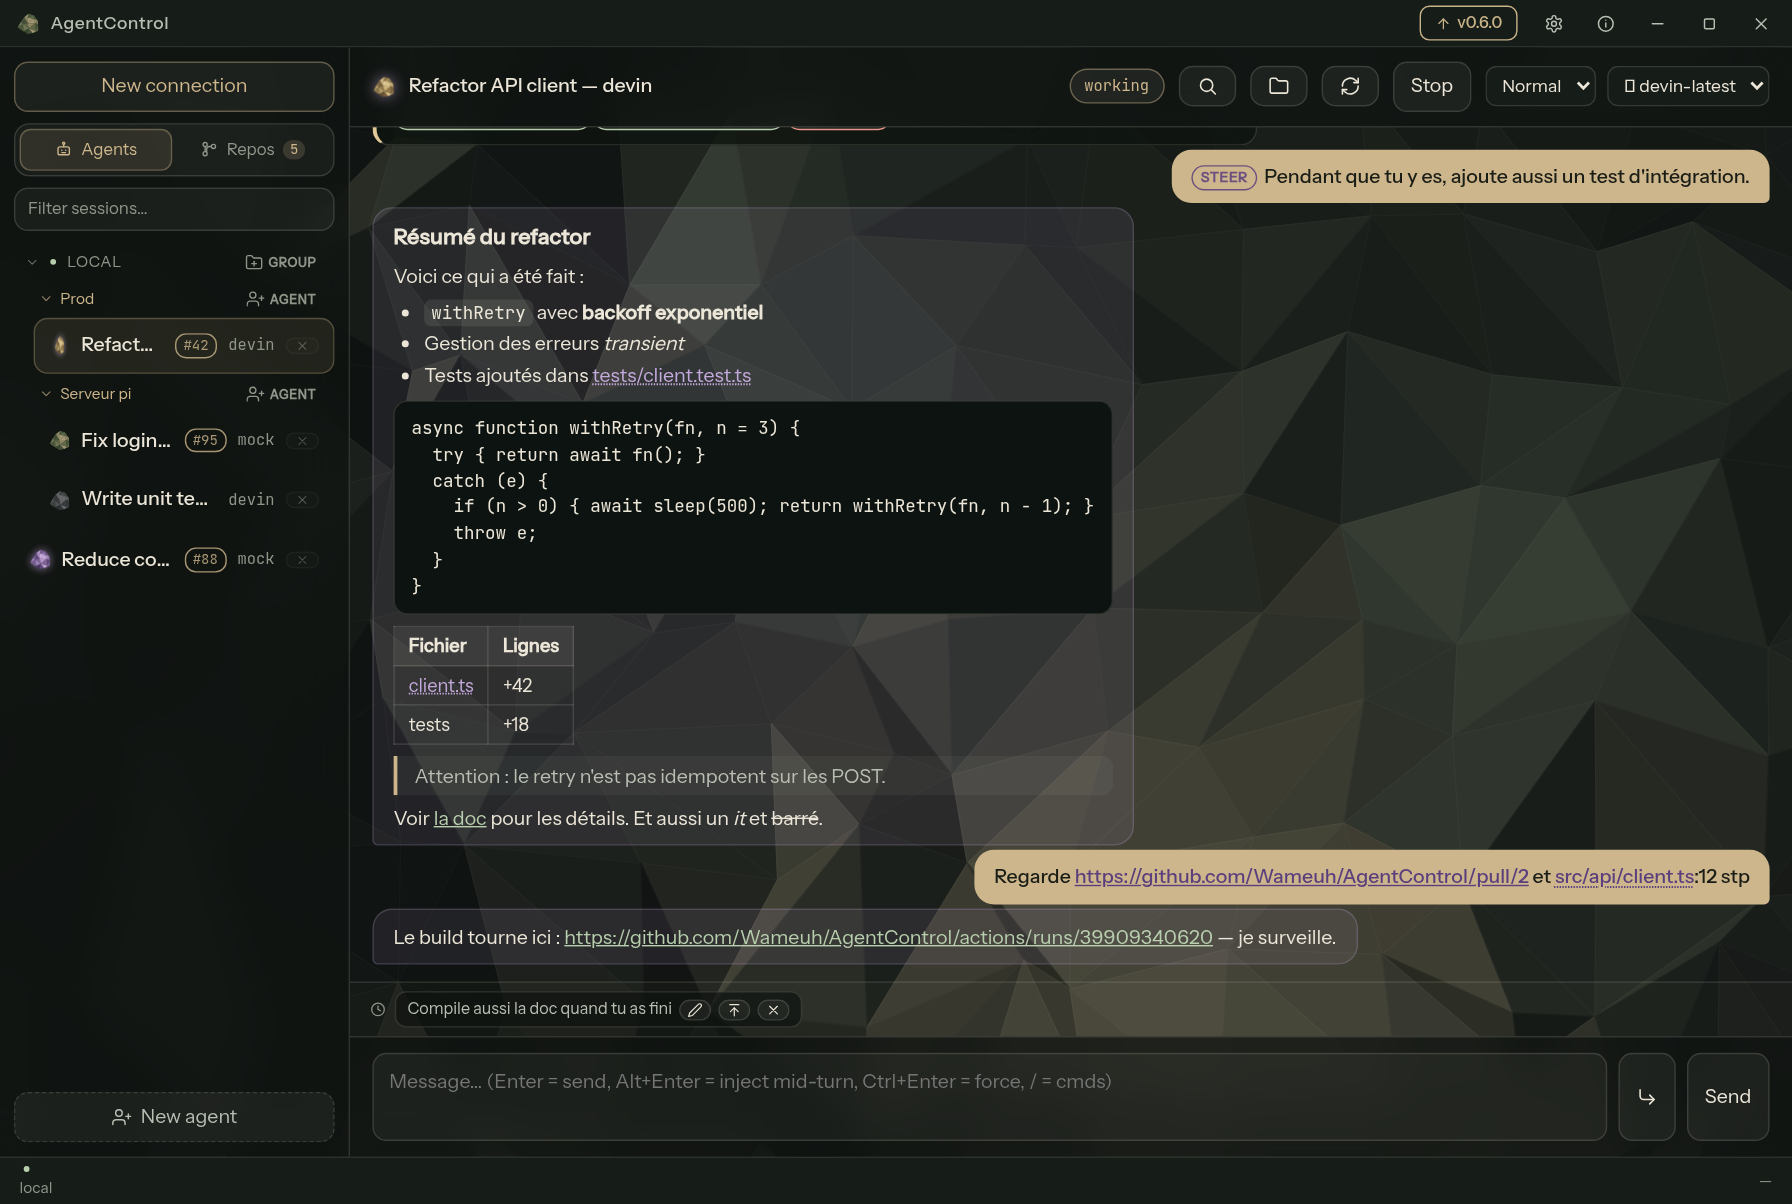
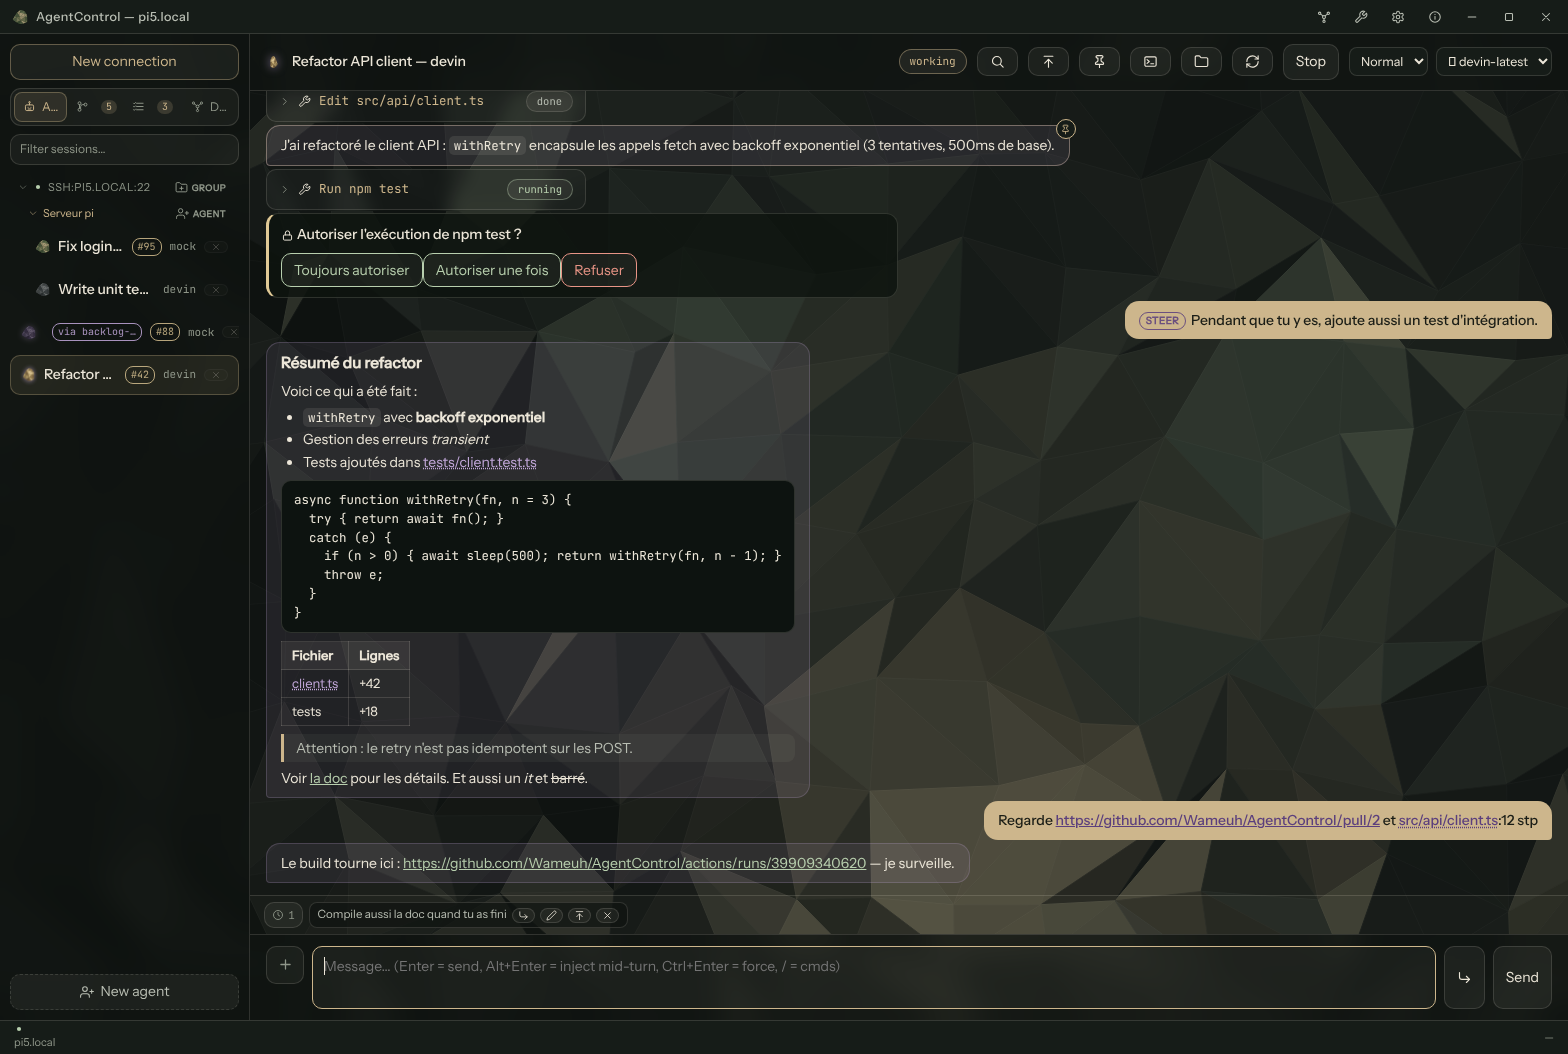
docs: captures README à jour — nouvelles surfaces UI (pins, badges PR, backlog, QR pair, PDF)
Generated with [Devin](https://devin.ai)

diff --git a/client/tests/tauri-mock.js b/client/tests/tauri-mock.js
@@ -1,8 +1,13 @@
 // Mock window.__TAURI_INTERNALS__ pour tester la WebView hors Tauri.
 // Répond aux invoke() du frontend avec des données réalistes.
 (function () {
+  // Clé de la connexion simulée — doit correspondre à connKeyOf(cfg) de la
+  // saved_connections plus bas (ssh → ssh-native forcé sous Android) pour
+  // que les capabilities du daemon_status s'appliquent aux sessions.
+  const CONN = /Android/i.test(navigator.userAgent)
+    ? "ssh-native:pi5.local:22" : "ssh:pi5.local:22";
   const SESSIONS = [
-    { id: "s1", conn: "local", agent: "devin", title: "Refactor API client",
+    { id: "s1", conn: CONN, agent: "devin", title: "Refactor API client",
       cwd: "/home/agent/api", created_at: "2026-10-20T10:00:00Z",
       available_modes: ["normal", "auto"], available_models: ["devin-latest", "opus"],
       available_commands: [{ name: "compact", description: "Compacter le contexte" }],
@@ -13,14 +18,14 @@
           currentValue: "devin-latest", options: [{ value: "devin-latest", name: "devin-latest" }, { value: "opus", name: "opus" }] },
       ],
       state: "working" },
-    { id: "s2", conn: "local", agent: "mock", title: "Fix login crash",
+    { id: "s2", conn: CONN, agent: "mock", title: "Fix login crash",
       cwd: "/home/agent/app", created_at: "2026-10-19T09:00:00Z", group: "Serveur pi",
       spawned_by: "s1",
       available_modes: [], available_models: [], available_commands: [], state: "idle" },
-    { id: "s3", conn: "local", agent: "devin", title: "Write unit tests",
+    { id: "s3", conn: CONN, agent: "devin", title: "Write unit tests",
       cwd: "/home/agent/tests", created_at: "2026-10-18T08:00:00Z", group: "Serveur pi",
       available_modes: [], available_models: [], available_commands: [], state: "dead" },
-    { id: "s4", conn: "local", agent: "mock", title: "Reduce context usage",
+    { id: "s4", conn: CONN, agent: "mock", title: "Reduce context usage",
       cwd: "/home/agent/infra", created_at: "2026-10-21T07:30:00Z",
       origin: "component:backlog-orchestrator",
       available_modes: [], available_models: [], available_commands: [], state: "compacting" },
@@ -87,18 +92,65 @@
     { seq: 11, ts: "10:09", type: "agent_text",
       text: "Le build tourne ici : https://github.com/Wameuh/AgentControl/actions/runs/39909340620 — je surveille." },
   ];
-  const DIR = {
-    dir: "/home/agent/api",
-    entries: [
-      { name: "src", dir: true, size: 0 },
-      { name: "tests", dir: true, size: 0 },
-      { name: ".git", dir: true, size: 0 },
-      { name: "Cargo.toml", dir: false, size: 1240 },
-      { name: "package.json", dir: false, size: 980 },
-      { name: "README.md", dir: false, size: 4321 },
-      { name: "logo.png", dir: false, size: 68 },
-      { name: ".env", dir: false, size: 120 },
-    ],
+  const DIRS = {
+    "": {
+      dir: "/home/agent/api",
+      entries: [
+        { name: "src", dir: true, size: 0 },
+        { name: "tests", dir: true, size: 0 },
+        { name: ".git", dir: true, size: 0 },
+        { name: "Cargo.toml", dir: false, size: 1240 },
+        { name: "package.json", dir: false, size: 980 },
+        { name: "README.md", dir: false, size: 4321 },
+        { name: "rapport.pdf", dir: false, size: 797 },
+        { name: "logo.png", dir: false, size: 68 },
+        { name: ".env", dir: false, size: 120 },
+      ],
+    },
+    "src": {
+      dir: "/home/agent/api/src",
+      entries: [
+        { name: "api", dir: true, size: 0 },
+        { name: "client.ts", dir: false, size: 2890 },
+        { name: "retry.ts", dir: false, size: 1154 },
+        { name: "types.ts", dir: false, size: 640 },
+      ],
+    },
+    "src/api": {
+      dir: "/home/agent/api/src/api",
+      entries: [
+        { name: "client.ts", dir: false, size: 3120 },
+        { name: "fetch.ts", dir: false, size: 845 },
+      ],
+    },
+    "tests": {
+      dir: "/home/agent/api/tests",
+      entries: [
+        { name: "client.test.ts", dir: false, size: 2034 },
+      ],
+    },
+  };
+  // PDF minimal valide (2 pages, repris de pdf-view-e2e.mjs) — sert la
+  // preview du viewer PDF dans les captures.
+  const PDF_B64 =
[1 lines of base64/hex data omitted]
+  // Épinglés (pinned.json) : un « live » (seq+ts correspondent au
+  // journal EVENTS) + un « dead » (icône d'avertissement — son event a
+  // disparu après /clear). Couvre les deux états du panneau.
+  const PINNED = [
+    { seq: 5, ts: "10:04", type: "agent_text",
+      text: "J'ai refactoré le client API : withRetry encapsule les appels fetch avec backoff exponentiel (3 tentatives, 500ms de base).",
+      pinned_at: "2026-10-21T10:20:00Z", live: true },
+    { seq: 3, ts: "09:58", type: "user_message",
+      text: "Ajoute un coverage du chemin d'erreur réseau.",
+      pinned_at: "2026-10-20T18:02:00Z", live: false },
+  ];
+  const CAPS = {
+    version: "0.10.0", sessions: SESSIONS.length,
+    agents: ["devin", "mock"],
+    self_update: true, first_post: true, terminal: true, files: true,
+    components: true, orchestrator: true, pinned: true, queue_steer: true,
+    web: null,
   };
   const FILE = { content: "export async function apiCall(url, opts) {\n  return withRetry(() => fetch(url, opts), 3);\n}\n\nasync function withRetry(fn, n) {\n  try { return await fn(); }\n  catch (e) { if (n > 0) { await sleep(500); return withRetry(fn, n - 1); } throw e; }\n}", truncated: false, path: "/home/agent/api/src/client.ts" };
 
@@ -112,17 +164,26 @@
       }
       case "events": return { events: EVENTS, last_seq: EVENTS.length };
       case "queue_list": return { queue: ["Compile aussi la doc quand tu as fini"] };
-      case "list_dir": return DIR;
-      case "read_file": return args.binary ? {
-        path: "/home/agent/api/logo.png", size: 68, truncated: false,
[1 lines of base64/hex data omitted]
-      } : FILE;
+      case "list_dir":
+        return DIRS[args.path ?? ""] ??
+          { dir: `/home/agent/api/${args.path ?? ""}`, entries: [] };
+      case "read_file":
+        if (args.binary && String(args.path).endsWith("rapport.pdf")) {
+          return { path: "/home/agent/api/rapport.pdf", size: 797,
+                   truncated: false, data: PDF_B64 };
+        }
+        return args.binary ? {
+          path: "/home/agent/api/logo.png", size: 68, truncated: false,
[1 lines of base64/hex data omitted]
+        } : FILE;
+      case "list_pinned": return { pinned: PINNED };
+      case "pin_message": case "unpin_message": return { pinned: PINNED };
       case "set_session_group": {
         const s = SESSIONS.find((x) => x.id === args.session);
         if (s) s.group = args.group;
         return { group: args.group };
       }
-      case "daemon_status": return { version: "0.2.9", sessions: SESSIONS.length, components: true };
+      case "daemon_status": return CAPS;
       case "list_components":
         return COMPONENTS.filter((c) => c.name !== "agentbacklog" || !window.__blHide);
       case "component_query": {
@@ -178,22 +239,22 @@
         };
       }
       case "pr_list": return [
-        { conn: "local", repo: "Wameuh/AgentControl", pr: 42,
+        { conn: CONN, repo: "Wameuh/AgentControl", pr: 42,
           session: SESSIONS[0].id, branch: "feat/x", title: "feat: exemple",
           status: "open", via: "detected" },
-        { conn: "local", repo: "Wameuh/AgentControl", pr: 95,
+        { conn: CONN, repo: "Wameuh/AgentControl", pr: 95,
           session: SESSIONS[1].id, branch: "feat/sous-agents",
           title: "feat: sous-agents dans l'arbre", status: "draft",
           via: "manual" },
-        { conn: "local", repo: "Wameuh/AgentControl", pr: 88,
+        { conn: CONN, repo: "Wameuh/AgentControl", pr: 88,
           session: SESSIONS[3].id, branch: "fix/scroll",
           title: "fix: scroll ancré au bas", status: "open",
           via: "detected" },
-        { conn: "local", repo: "cli/cli", pr: 1204,
+        { conn: CONN, repo: "cli/cli", pr: 1204,
           session: "agent-externe-qui-n-existe-plus", branch: "patch-1",
           title: "fix: token refresh retry", status: "conflict",
           via: "manual" },
-        { conn: "local", repo: "cli/cli", pr: 1190,
+        { conn: CONN, repo: "cli/cli", pr: 1190,
           session: "", branch: "docs/readme",
           title: "docs: contribution guide", status: "open", via: "manual" },
       ];
@@ -214,24 +275,35 @@
     invoke(cmd, args) {
       const p = Promise.resolve();
       if (cmd === "platform") return p.then(() => (location.hash === "#desktop" ? "linux" : "android"));
-      if (cmd === "app_version") return p.then(() => "0.2.9");
+      if (cmd === "app_version") return p.then(() => "0.10.0");
       if (cmd === "plugin:event|listen") return p.then(() => ++cbId);
       if (cmd === "plugin:event|unlisten") return p.then(() => null);
       if (cmd.startsWith("plugin:")) return p.then(() => null);
       switch (cmd) {
-        case "connect": return p.then(() => ({ version: "0.2.9", sessions: SESSIONS.length, servers: 1, components: true }));
+        case "connect": return p.then(() => ({ ...CAPS, servers: 1 }));
         case "call": return p.then(() => rpc(args.method, args.params ?? args));
         case "subscribe": return p.then(() => null);
-        case "saved_connections": return p.then(() => []);
+        case "saved_connections": return p.then(() => [
+          { kind: "ssh", host: "pi5.local", user: "me", port: 22, remote_port: 7331 },
+        ]);
         case "cli_conn": return p.then(() => null);
         case "spawn_instance": return p.then(() => null);
         case "ssh_hosts": return p.then(() => []);
         case "ssh_pubkey": return p.then(() => "ssh-ed25519 AAAAC3NzaC1lZDI1NTE5AAAAIDemoAgentControlKeyExample agentcontrol");
-        // Appairage QR : l'install distante n'est pas simulée — réponses
-        // d'endpoint seul (resolve ok, begin refuse → mode dégradé/testé
-        // hors Tauri). pair_devices vide = la section reste pliable.
+        // Appairage QR : pair_begin réussit avec un payload v2 démo (clé
+        // jetable factice — captures README) ; le poll renvoie « gone »
+        // (le dialogue affiche l'état sans dépendre d'un serveur réel).
         case "pair_resolve": return p.then(() => ({ host: args.cfg?.host ?? "demo.local", port: 22, user: "dev" }));
-        case "pair_begin": return p.then(() => { throw new Error("mock: pas de serveur"); });
+        case "pair_begin": return p.then(() => ({
+          payload: JSON.stringify({
+            v: 2, host: "pi5.local", port: 22, user: "me", rport: 7331,
+            exp: Math.floor(Date.now() / 1000) + 290,
+            k: "-----BEGIN OPENSSH PRIVATE KEY-----\nb3BlbnNzaC1rZXktdjEAAAAAEC1tb2NrLWRlbW8ta2V5LWZvci1zY3JlZW5zaG90\n-----END OPENSSH PRIVATE KEY-----",
+            hk: ["SHA256:DemoHostKeyFingerprintForScreenshot"],
+          }),
+          exp: Math.floor(Date.now() / 1000) + 290,
+          nonce: "demo-nonce-0001", warn: null, sweep: "cron",
+        }));
         case "pair_devices": return p.then(() => []);
         case "pair_payload": return p.then(() => "agentcontrol://pair?v=1&host=demo.local&port=22&rport=7331&user=dev&auth=pw&secret=ZGVtbw");
         case "pair_poll": return p.then(() => "gone");

diff --git a/README.md b/README.md
@@ -15,15 +15,24 @@ whole fleet from your desk or your couch.
 
 ## Screenshots
 
-Markdown chat with expandable tool calls, session groups, prompt queue,
-pull-request tracking — desktop:
+Markdown chat with expandable tool calls, pending permissions, session
+groups, a prompt queue and pull-request tracking — desktop:
 
 ![AgentControl desktop — agent chat](docs/screenshots/desktop-chat.png)
 
-Browse the remote workspace: file tree, in-app editing, image and video
-preview:
+Browse the remote workspace: file tree, in-app editing, image, video and
+PDF preview:
 
 ![AgentControl desktop — remote file explorer](docs/screenshots/desktop-files.png)
+
+Pair a phone (or a second machine) by QR — a one-shot key on the server,
+the device keeps its own:
+
+![AgentControl — pair a device by QR](docs/screenshots/desktop-pair.png)
+
+| Watch the shared backlog — queue, in-flight work, throughput | Tune the feel — themes, accents, sounds, notifications, updates |
+|:-:|:-:|
+| ![AgentControl — backlog panel](docs/screenshots/desktop-backlog.png) | ![AgentControl — settings](docs/screenshots/desktop-settings.png) |
 
 Same sessions, same agents — native mobile UI on Android:
 
